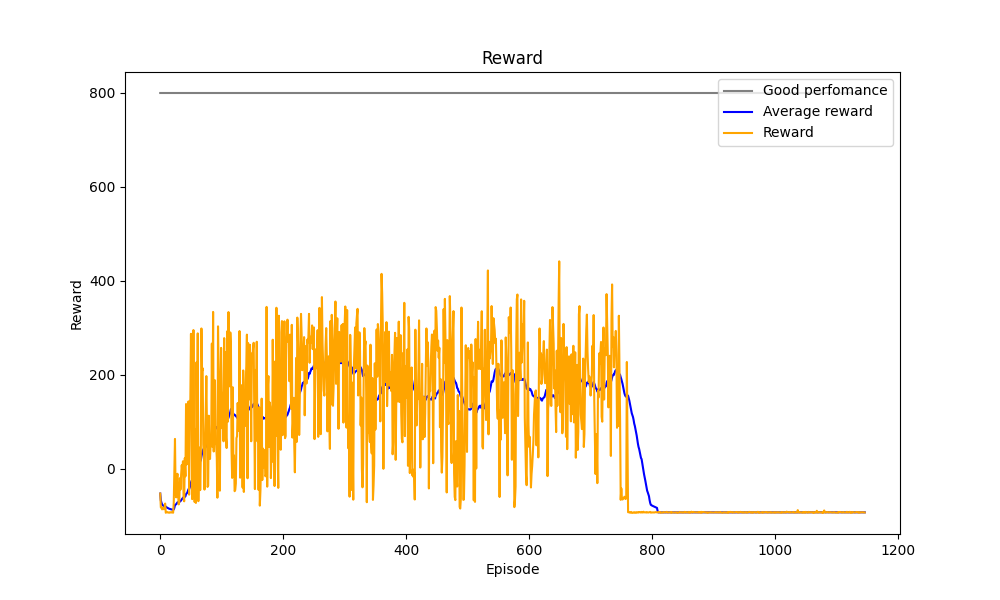
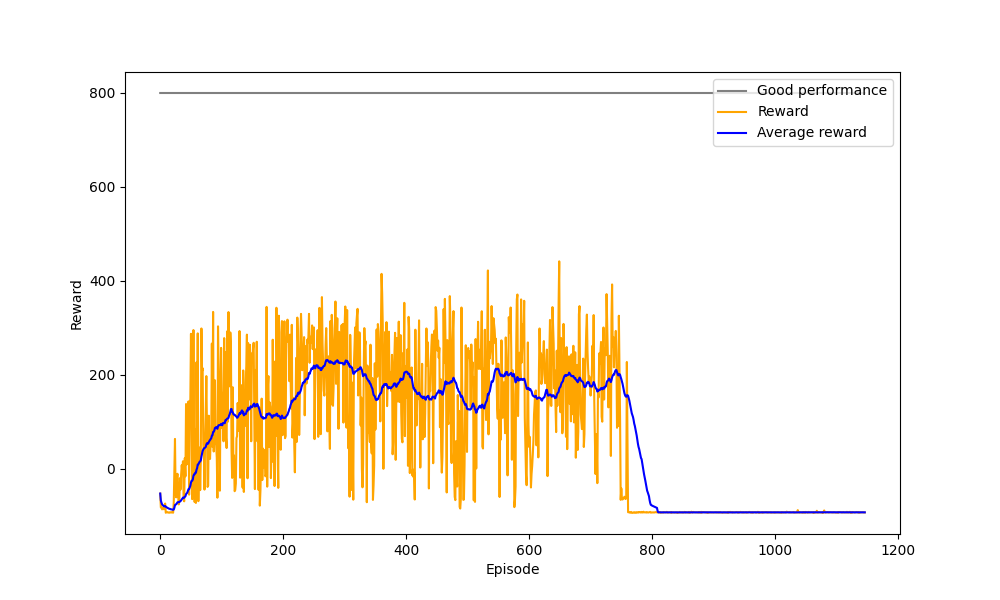
.

diff --git a/box2d/CarRacing/plot_logging.py b/box2d/CarRacing/plot_logging.py
@@ -3,11 +3,11 @@ import matplotlib.pyplot as plt
 import numpy as np
 data = pd.read_csv("./logging/log1.csv", sep=';')
 plt.figure(figsize=(10, 6))
-plt.plot([800] * len(data['average']), c="gray")
-plt.plot(data['average'], c="blue")
-plt.plot(data['reward'], c="orange")
+plt.plot([800] * len(data['average']), c="gray", label="Good performance")
+plt.plot(data['reward'], c="orange", label="Reward")
+plt.plot(data['average'], c="blue", label="Average reward")
+
 plt.xlabel('Episode')
 plt.ylabel('Reward')
-plt.legend(['Good perfomance', 'Average reward', 'Reward'], loc='upper right')
-plt.title('Reward')
+plt.legend(loc='upper right')
 plt.show()
